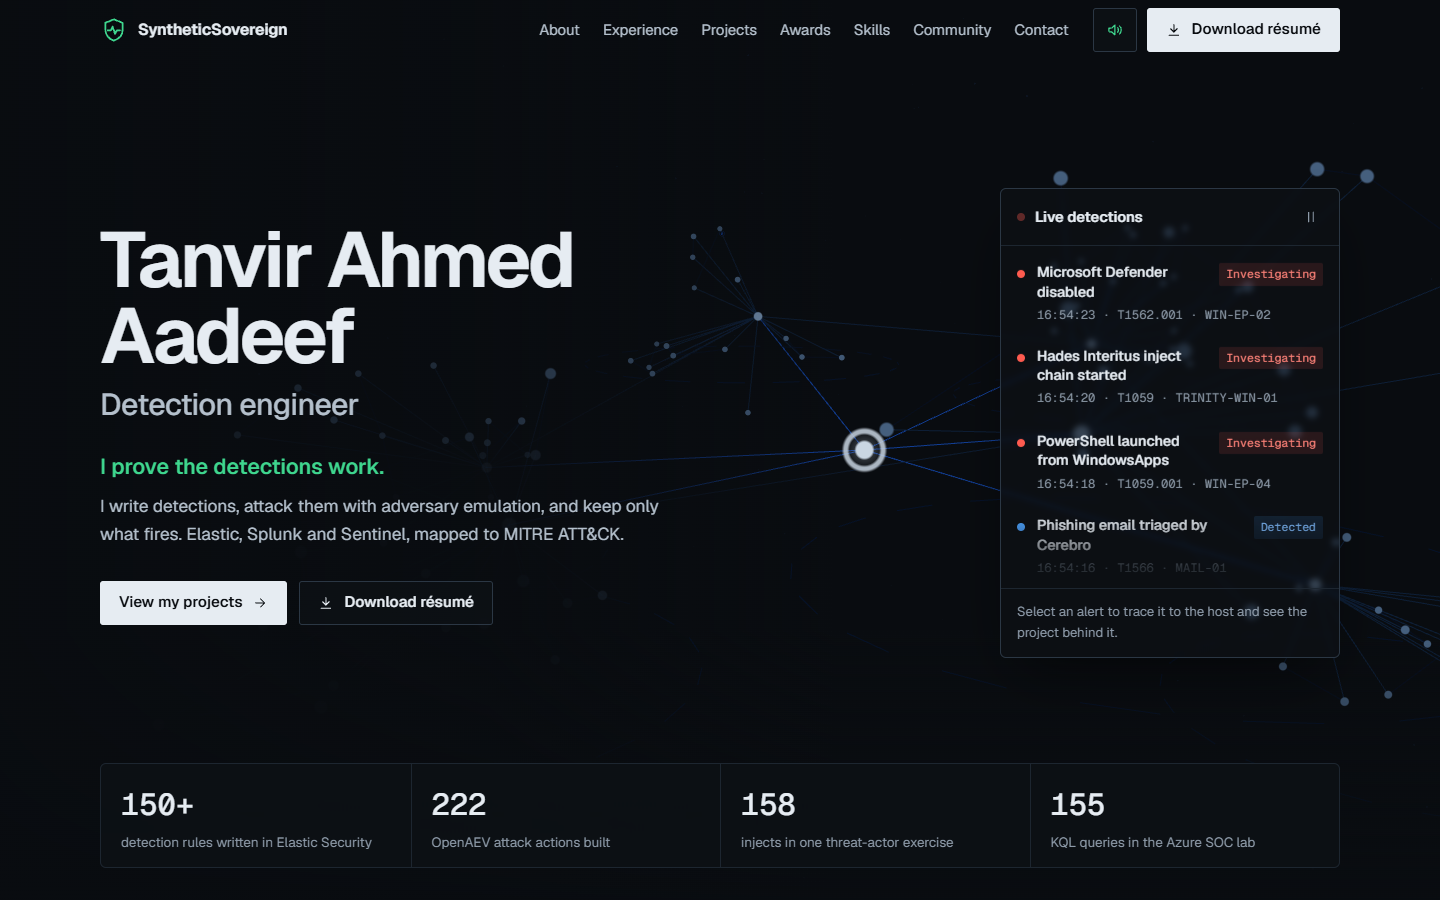
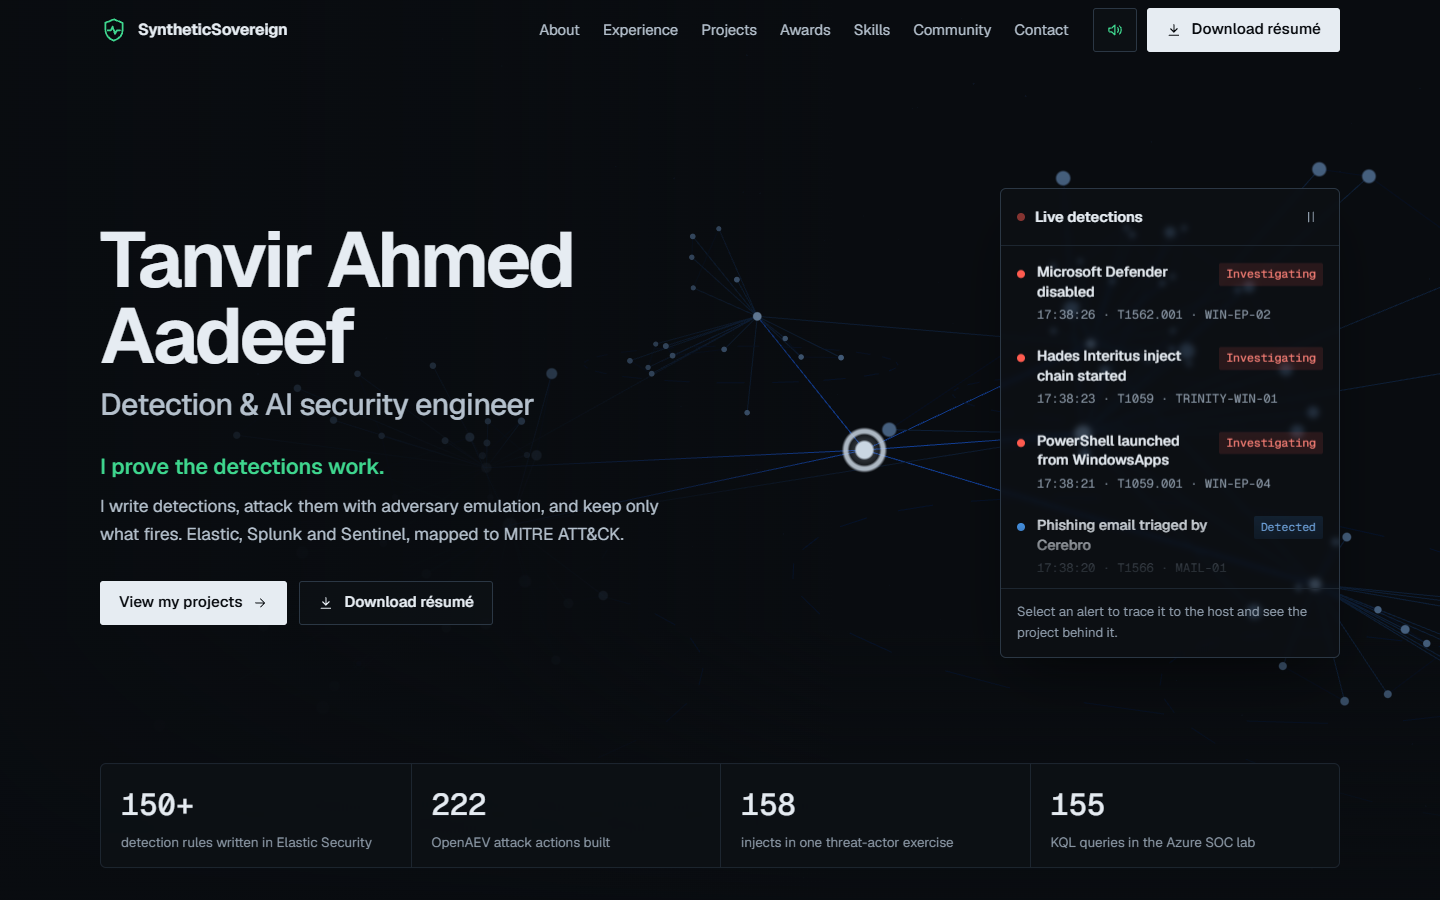
Add AI security to the role line

Changed region(s): [[0.1562, 0.4356, 0.375, 0.4667], [0.7188, 0.4044, 0.7812, 0.4667], [0.7812, 0.4356, 0.8125, 0.4667]]

diff --git a/src/data/site.ts b/src/data/site.ts
@@ -1,6 +1,6 @@
 export const person = {
   name: 'Tanvir Ahmed Aadeef',
-  role: 'Detection engineer',
+  role: 'Detection & AI security engineer',
   place: 'Melbourne',
   email: 't.ahmedaadeef@gmail.com',
   linkedin: 'https://www.linkedin.com/in/tanvir-ahmed-aadeef/',

diff --git a/README.md b/README.md
@@ -1,6 +1,6 @@
 <div align="center">
 
-<a href="https://tanvirahmedaadeef.com"><img src=".github/assets/banner.svg" alt="Tanvir Ahmed Aadeef, detection engineer" width="100%"></a>
+<a href="https://tanvirahmedaadeef.com"><img src=".github/assets/banner.svg" alt="Tanvir Ahmed Aadeef, detection and AI security engineer" width="100%"></a>
 
 <br>
 
@@ -12,7 +12,7 @@
 
 ## About
 
-My personal portfolio. I'm a detection engineer in Melbourne: I write detections in Elastic, Splunk and Sentinel, attack them with adversary emulation, and keep only what fires. This site is where my work, projects and background live in one place.
+My personal portfolio. I'm a detection and AI security engineer in Melbourne: I write detections in Elastic, Splunk and Sentinel, attack them with adversary emulation, keep only what fires, and build defences for the AI systems SOCs now rely on. This site is where my work, projects and background live in one place.
 
 <img src=".github/assets/home.png" alt="Home page with the live detection feed and the 3D network" width="100%">
 
